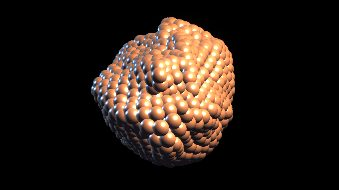
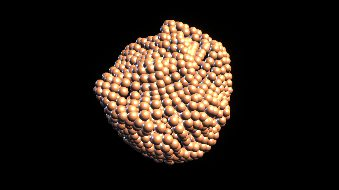
Phong: ray-traced spheres in world units, aimed and cone lights
Each phong point is now a sphere of radius `size` in world units. A ray
per fragment finds the surface, normal and depth, so silhouettes are
perspective-correct and overlapping spheres meet properly. This replaces
pixel scale/focus. Lights get look (distant and cone aim at it), a cone
type with TD's coneangle/conedelta, and up to 8 direct lights.

lit golden updated on purpose: size and a cone key light.

Changed region(s): [[0.2655, 0.0789, 0.708, 0.8684]]

diff --git a/src/engine/mat.ts b/src/engine/mat.ts
@@ -21,14 +21,19 @@ export interface PointDraw {
 
 type Vec3 = [number, number, number];
 
-/** A light COMP in world space; color already carries the dimmer. */
+/** A light COMP in world space; color already carries the dimmer. Cone angles are in degrees. */
 export interface Light {
-  kind: "point" | "distant" | "ambient";
+  kind: "point" | "distant" | "cone" | "ambient";
   pos: Vec3;
+  look: Vec3;
   color: Vec3;
+  coneangle: number;
+  conedelta: number;
 }
 
 export interface PhongLook {
+  /** Sphere radius in world units. */
+  size: number;
   diff: Vec3;
   spec: Vec3;
   amb: Vec3;
@@ -36,13 +41,21 @@ export interface PhongLook {
   shininess: number;
 }
 
-export interface PhongDraw extends Omit<PointDraw, "alpha" | "color"> {
+export interface PhongDraw {
+  p: WebGLTexture;
+  n: number;
+  view: Float32Array;
+  proj: Float32Array;
   look: PhongLook;
   lights: Light[];
   depth: WebGLRenderbuffer;
+  target: twgl.FramebufferInfo;
+  width: number;
+  height: number;
 }
 
-const MAX_LIGHTS = 4;
+const MAX_LIGHTS = 8;
+const LIGHT_CODE = { distant: 0, point: 1, cone: 2 } as const;
 
 /** Additive point sprites. gl_PointSize from view-space distance and focus. No pixel readback. */
 export class PointMat {
@@ -92,10 +105,11 @@ export class PointMat {
   }
 }
 
-/** Opaque lit sphere sprites with a depth buffer. Lights go to view space here, once per draw. */
+/** Opaque lit spheres, ray-traced inside point sprites, with a depth buffer. Lights go to view space here, once per draw. */
 export class PhongMat {
   private info: twgl.ProgramInfo;
   private vao: WebGLVertexArrayObject;
+  private maxPoint: number;
 
   constructor(private gl: WebGL2RenderingContext) {
     let message = "";
@@ -107,6 +121,8 @@ export class PhongMat {
     const vao = gl.createVertexArray();
     if (!vao) throw new Error("could not create a phong VAO");
     this.vao = vao;
+    const range = gl.getParameter(gl.ALIASED_POINT_SIZE_RANGE) as Float32Array | null;
+    this.maxPoint = range?.[1] ?? 64;
   }
 
   draw(args: PhongDraw): void {
@@ -124,31 +140,33 @@ export class PhongMat {
     gl.clearDepth(1);
     gl.clear(gl.COLOR_BUFFER_BIT | gl.DEPTH_BUFFER_BIT);
     const pos = new Float32Array(MAX_LIGHTS * 4);
-    const color = new Float32Array(MAX_LIGHTS * 3);
+    const axis = new Float32Array(MAX_LIGHTS * 4);
+    const color = new Float32Array(MAX_LIGHTS * 4);
     const ambient: Vec3 = [0, 0, 0];
-    const direct = args.lights.filter((light) => light.kind !== "ambient").slice(0, MAX_LIGHTS);
     for (const light of args.lights) {
       if (light.kind !== "ambient") continue;
       ambient[0] += light.color[0];
       ambient[1] += light.color[1];
       ambient[2] += light.color[2];
     }
-    const v = args.view;
+    const direct = args.lights.filter((light) => light.kind !== "ambient").slice(0, MAX_LIGHTS);
     direct.forEach((light, index) => {
-      const [x, y, z] = light.pos;
-      // Column-major: a point gets the translation, a direction does not.
-      const w = light.kind === "point" ? 1 : 0;
-      pos[index * 4] = v[0]! * x + v[4]! * y + v[8]! * z + v[12]! * w;
-      pos[index * 4 + 1] = v[1]! * x + v[5]! * y + v[9]! * z + v[13]! * w;
-      pos[index * 4 + 2] = v[2]! * x + v[6]! * y + v[10]! * z + v[14]! * w;
-      pos[index * 4 + 3] = w;
-      color.set(light.color, index * 3);
+      if (light.kind === "ambient") return; // narrows the kind; ambients were filtered out
+      const along = sub(light.look, light.pos);
+      // A distant light is a direction toward the light; point and cone lights are positions.
+      const at = light.kind === "distant" ? toView(args.view, normalize(scale(along, -1)), 0) : toView(args.view, light.pos, 1);
+      pos.set([...at, LIGHT_CODE[light.kind]], index * 4);
+      const half = (Math.max(0, light.coneangle) / 2) * (Math.PI / 180);
+      const outer = Math.min(Math.PI, half + Math.max(0, light.conedelta) * (Math.PI / 180));
+      axis.set([...toView(args.view, normalize(along), 0), Math.cos(outer)], index * 4);
+      // The inner edge must sit inside the outer one or smoothstep has no ramp.
+      color.set([...light.color, Math.max(Math.cos(half), Math.cos(outer) + 1e-4)], index * 4);
     });
     // No light at all: a headlight at the camera, so a fresh phong is never black.
     let count = direct.length;
     if (args.lights.length === 0) {
-      pos.set([0, 0, 0, 1], 0);
-      color.set([1, 1, 1], 0);
+      pos.set([0, 0, 0, LIGHT_CODE.point], 0);
+      color.set([1, 1, 1, 1], 0);
       count = 1;
     }
     gl.useProgram(this.info.program);
@@ -156,9 +174,10 @@ export class PhongMat {
     twgl.setUniforms(this.info, {
       sP: args.p,
       uView: args.view,
-      uViewProj: args.viewProj,
-      uScale: args.scale,
-      uFocus: args.focus,
+      uProj: args.proj,
+      uSize: Math.max(1e-4, args.look.size),
+      uViewport: [args.width, args.height],
+      uMaxPoint: this.maxPoint,
       uWidth: POP_WIDTH,
       uDiff: args.look.diff,
       uSpec: args.look.spec,
@@ -168,6 +187,7 @@ export class PhongMat {
       uAmbient: ambient,
       uLightCount: count,
       uLightPos: pos,
+      uLightAxis: axis,
       uLightColor: color,
     });
     gl.drawArrays(gl.POINTS, 0, Math.max(0, args.n));
@@ -175,4 +195,27 @@ export class PhongMat {
     gl.disable(gl.DEPTH_TEST);
     gl.framebufferRenderbuffer(gl.FRAMEBUFFER, gl.DEPTH_ATTACHMENT, gl.RENDERBUFFER, null);
   }
+}
+
+/** A world-space point (w = 1) or direction (w = 0) in view space. The view matrix is column-major. */
+function toView(v: Float32Array, [x, y, z]: Vec3, w: number): Vec3 {
+  return [
+    v[0]! * x + v[4]! * y + v[8]! * z + v[12]! * w,
+    v[1]! * x + v[5]! * y + v[9]! * z + v[13]! * w,
+    v[2]! * x + v[6]! * y + v[10]! * z + v[14]! * w,
+  ];
+}
+
+function sub(a: Vec3, b: Vec3): Vec3 {
+  return [a[0] - b[0], a[1] - b[1], a[2] - b[2]];
+}
+
+function scale(a: Vec3, k: number): Vec3 {
+  return [a[0] * k, a[1] * k, a[2] * k];
+}
+
+/** A light on its own look point has no direction; it shines down -y. */
+function normalize(a: Vec3): Vec3 {
+  const length = Math.hypot(a[0], a[1], a[2]);
+  return length < 1e-6 ? [0, -1, 0] : scale(a, 1 / length);
 }

diff --git a/src/ops/catalog.ts b/src/ops/catalog.ts
@@ -198,8 +198,7 @@ export const OPS: OpSpec[] = [
     type: "phong",
     inputs: 0,
     pars: [
-      num("scale", 10, 0.1, 64),
-      num("focus", 4, 0, 32),
+      num("size", 0.05, 0.001, 1),
       num("diffr", 1, 0, 4),
       num("diffg", 1, 0, 4),
       num("diffb", 1, 0, 4),
@@ -234,14 +233,19 @@ export const OPS: OpSpec[] = [
     type: "light",
     inputs: 0,
     pars: [
-      menu("lighttype", "point", ["point", "distant", "ambient"]),
+      menu("lighttype", "point", ["point", "distant", "cone", "ambient"]),
       num("tx", 3, -20, 20),
       num("ty", 4, -20, 20),
       num("tz", 5, -40, 40),
+      num("lookx", 0, -20, 20),
+      num("looky", 0, -20, 20),
+      num("lookz", 0, -40, 40),
       num("colorr", 1, 0, 4),
       num("colorg", 1, 0, 4),
       num("colorb", 1, 0, 4),
       num("dimmer", 1, 0, 8),
+      num("coneangle", 45, 1, 180),
+      num("conedelta", 10, 0, 90),
     ],
   },
   {
@@ -353,9 +357,9 @@ export const DESCRIBE: Record<string, string> = {
   "POP:merge": "concatenates in0 and in1, at most 4096 points total",
   "POP:null": "passes in0",
   "MAT:point": "additive glowing sprites, no depth, ignores lights; color above 1 blooms",
-  "MAT:phong": "opaque lit spheres with depth: ambient·amb + Σ light·(diff·N·L + spec·(N·H)^shininess) + emit; needs a light COMP (without one a headlight sits at the camera)",
+  "MAT:phong": "every point is a solid sphere of radius size (world units), ray-traced with true depth: ambient·amb + Σ light·(diff·N·L + spec·(N·H)^shininess) + emit; lit by light COMPs (without one a headlight sits at the camera)",
   "COMP:cam": "camera at t looking at look",
-  "COMP:light": "lights phong MATs. point: at t; distant: parallel rays from t toward the origin; ambient: lifts everything by color. dimmer scales color",
+  "COMP:light": "lights phong MATs. point: at t, all directions; distant: parallel rays from t toward look; cone: a spotlight at t aimed at look; ambient: lifts everything by color. dimmer scales color",
   "COMP:geo": "what render draws",
   "TOP:render": "draws the geo's points into an image; lights is * (every light COMP) or labels separated by spaces, * wildcards allowed; only phong uses them",
   "TOP:bloom": "glow",
@@ -372,9 +376,9 @@ export const PAR_NOTES: Record<string, string> = {
   "POP:mathcombine": "same math as mathmix; a scope may also name one of this node's number pars (scopeC weight), so weight can be driven by an expression",
   "POP:transform": "applied scale, then rotate x→y→z, then translate",
   "MAT:point": "on-screen size is scale·(1 + focus/distance) pixels at the 960x540 cook, clamped to 1..64; alpha and color multiply the additive glow. Reads only P: every point gets the same color",
-  "MAT:phong": "size as point (64 px cap, so past scale ≈35 at focus 4 nothing grows). diff: diffuse color; spec: specular highlight color; shininess: highlight tightness (higher is smaller); amb: how much ambient light it takes; emit: self-lit color. Reads only P. At most 4 point/distant lights count; ambient lights add up",
+  "MAT:phong": "size is the sphere radius in world units, so spheres shrink with distance like geometry; about half the point spacing reads as a solid surface. diff: diffuse color; spec: specular highlight color; shininess: highlight tightness (higher is smaller); amb: how much ambient light it takes; emit: self-lit color. Reads only P. At most 8 point/distant/cone lights count; ambient lights add up",
   "COMP:cam": "t is the eye position, look is the point it aims at; fov is vertical, in degrees",
-  "COMP:light": "lighttype point|distant|ambient; t is the position. No rotation: a distant light shines from t toward the origin; an ambient light ignores t. color × dimmer is the light",
+  "COMP:light": "lighttype point|distant|cone|ambient; t is the position, look the point a distant or cone light aims at (default the origin); an ambient light ignores both. coneangle is the full cone in degrees, conedelta the soft edge added outside it. color × dimmer is the light; no falloff with distance",
   "COMP:geo": "pop, mat and cam are labels of a POP, a MAT and a cam COMP",
   "TOP:render": "geo is a geo COMP label; lights matches light COMP labels (default * = all). Cooks at 960x540; out shows it at 1920x1080",
   "TOP:bloom": "threshold: brightness that starts to glow (the 0.01 default glows nearly everything, right for sparse point glow; raise to ~0.8 after phong so only highlights glow); fill: how far it spreads; intensity: glow added back; pregamma: contrast before thresholding",

diff --git a/src/engine/math.ts b/src/engine/math.ts
@@ -81,15 +81,21 @@ export function camera(
   fov: number,
   aspect: number,
   target: readonly number[] = [0, 0, 0],
-): { view: Float32Array; viewProj: Float32Array } {
+): { view: Float32Array; proj: Float32Array; viewProj: Float32Array } {
   // An eye on its own target has no direction; look down -z instead of dividing by zero.
   const same = Math.hypot(tx - (target[0] ?? 0), ty - (target[1] ?? 0), tz - (target[2] ?? 0)) < 1e-6;
   const view = lookAt([tx, ty, tz], same ? [tx, ty, tz - 1] : target, [0, 1, 0]);
   const proj = perspective(fov, aspect, 0.05, 100);
-  return { view, viewProj: multiply(proj, view) };
+  return { view, proj, viewProj: multiply(proj, view) };
 }
 
-export function orbitCamera(yaw: number, pitch: number, dist: number, fov: number, aspect: number): { view: Float32Array; viewProj: Float32Array } {
+export function orbitCamera(
+  yaw: number,
+  pitch: number,
+  dist: number,
+  fov: number,
+  aspect: number,
+): { view: Float32Array; proj: Float32Array; viewProj: Float32Array } {
   const cp = Math.cos(pitch);
   const sp = Math.sin(pitch);
   const cy = Math.cos(yaw);

diff --git a/src/engine/engine.ts b/src/engine/engine.ts
@@ -1028,9 +1028,12 @@ export class Engine {
     const dimmer = num.dimmer ?? 1;
     const kind = resolved?.menu.lighttype;
     return {
-      kind: kind === "distant" || kind === "ambient" ? kind : "point",
+      kind: kind === "distant" || kind === "cone" || kind === "ambient" ? kind : "point",
       pos: [num.tx ?? 3, num.ty ?? 4, num.tz ?? 5],
+      look: [num.lookx ?? 0, num.looky ?? 0, num.lookz ?? 0],
       color: [(num.colorr ?? 1) * dimmer, (num.colorg ?? 1) * dimmer, (num.colorb ?? 1) * dimmer],
+      coneangle: num.coneangle ?? 45,
+      conedelta: num.conedelta ?? 10,
     };
   }
 
@@ -1833,6 +1836,7 @@ export function matchesPattern(pattern: string, label: string): boolean {
 
 function phongLook(num: Record<string, number>): PhongLook {
   return {
+    size: num.size ?? 0.05,
     diff: [num.diffr ?? 1, num.diffg ?? 1, num.diffb ?? 1],
     spec: [num.specr ?? 1, num.specg ?? 1, num.specb ?? 1],
     amb: [num.ambr ?? 0.15, num.ambg ?? 0.15, num.ambb ?? 0.15],

diff --git a/src/engine/render.ts b/src/engine/render.ts
@@ -15,6 +15,7 @@ export interface CloudDraw {
   p: WebGLTexture;
   n: number;
   view: Float32Array;
+  proj: Float32Array;
   viewProj: Float32Array;
   scale: number;
   focus: number;
@@ -114,9 +115,7 @@ export class ImageOps {
       this.clear(target);
       return target.attachments[0] as WebGLTexture;
     }
-    // Phong spheres are solid, so at render size they would fill a thumb; keep them in proportion to the cook.
-    const sized = cloud.phong ? { ...cloud, scale: (cloud.scale * height) / COOK_H } : cloud;
-    this.drawCloud(sized, target, width, height, [1, 1, 1]);
+    this.drawCloud(cloud, target, width, height, [1, 1, 1]);
     return target.attachments[0] as WebGLTexture;
   }
 

diff --git a/docs/walkthrough.md b/docs/walkthrough.md
@@ -11,7 +11,7 @@ You should land on 20 nodes, a HUD like `20/20 live · 960×540`, and a soft whi
 3. **Parameters and expressions.** Pause, click noise. `amp` is `op('e_amp')['chan1']` with ƒ on. Turn ƒ off and drag 0 → 4: the cloud collapses, then blows apart. A bad expression (`absTime.frame`, `1/0`) turns red after a short pause and the last good value keeps cooking.
 4. **Palette.** Tab (opens at the cursor, on the selected node's family), `add`, or double-click empty network. Type `noise` (or just `nse`), Enter: the node hangs off the cursor; click to put it down unwired, Shift-click to wire it after the one selected node, Escape or right-click to drop it. It is selected and its pars show on the right. Opened near the bottom or right edge, the palette stays on screen.
 4b. **Wires.** Drag a wire onto an inlet that already has one: it replaces it. Drag from a wired inlet onto empty network to pull the wire out, or onto another outlet to rewire it. A wire end dropped on an inlet that refuses it (another family, a loop) stays where it was. Drop a wire from an outlet (or an inlet) on empty network: the palette opens there and the new op is wired to it. Double-click a wire to insert an op into it.
-4c. **Lit points.** Add a phong MAT, point geo.mat at it, add a light COMP: the cloud turns into shaded spheres. Move the light's t, switch lighttype to distant or ambient; render.lights `*` uses every light; renaming a light follows into render.lights.
+4c. **Lit points.** Add a phong MAT, point geo.mat at it, add a light COMP: the cloud turns into shaded spheres. Move the light's t, switch lighttype to distant, cone (aim it with look, narrow it with coneangle) or ambient; phong size is the sphere radius in world units; render.lights `*` uses every light; renaming a light follows into render.lights.
 5. **CHOP onto a par.** Drag the ƒ chip on a CHOP header onto a numeric par (also works on shader uniforms). The row becomes `op('<label>')['chan1']` with ƒ on.
 6. **Rename, bypass, delete, undo.** Click a selected node's label to rename; expressions that used the old name follow. The `b` button bypasses (noise bypassed freezes the displacement). Delete removes. Ctrl+Z / Ctrl+Shift+Z (or ↶ ↷) undo only your own edits.
 7. **Shaders.** graph → examples → melt (confirm replaces the room's graph). Double-click a shader TOP: the GLSL drawer opens; edit and it recompiles, the last good program keeps cooking on error. Removing an `iChannel` use does not delete its wire.

diff --git a/AGENTS.md b/AGENTS.md
@@ -38,7 +38,7 @@ The collapsible panel on the left talks to `/ai` on the room server, which holds
 
 ## Now
 
-The boot graph is a POP cloud. CHOP lfo, pattern, audioband, math, and null cook one sample per frame on the CPU. Expressions (`absTime.seconds`, `op('name')['chan1']`, `+ - * /`, `sin`, `fract`, `mod` and a few more) are evaluated on the CPU and can point at a CHOP by its label. POP pointgen, noise, mathmix, mathcombine, and transform cook as RGBA32F textures, one texel per point. A point MAT draws them additively into a render TOP, then bloom, then out; a phong MAT draws them as opaque lit spheres with depth, lit by light COMPs (point, distant, ambient) that the render TOP picks with its `lights` pattern. The playbar pauses `absTime`. The viewer follows the selection. ShaderToy TOPs, audio, and `// @feedback` still cook; load that graph with `?graph=/tests/graphs/melt.json`.
+The boot graph is a POP cloud. CHOP lfo, pattern, audioband, math, and null cook one sample per frame on the CPU. Expressions (`absTime.seconds`, `op('name')['chan1']`, `+ - * /`, `sin`, `fract`, `mod` and a few more) are evaluated on the CPU and can point at a CHOP by its label. POP pointgen, noise, mathmix, mathcombine, and transform cook as RGBA32F textures, one texel per point. A point MAT draws them additively into a render TOP, then bloom, then out; a phong MAT ray-traces each point as a sphere of world-unit radius with true depth, lit by light COMPs (point, distant, cone, ambient) that the render TOP picks with its `lights` pattern. The playbar pauses `absTime`. The viewer follows the selection. ShaderToy TOPs, audio, and `// @feedback` still cook; load that graph with `?graph=/tests/graphs/melt.json`.
 
 ## Next
 
